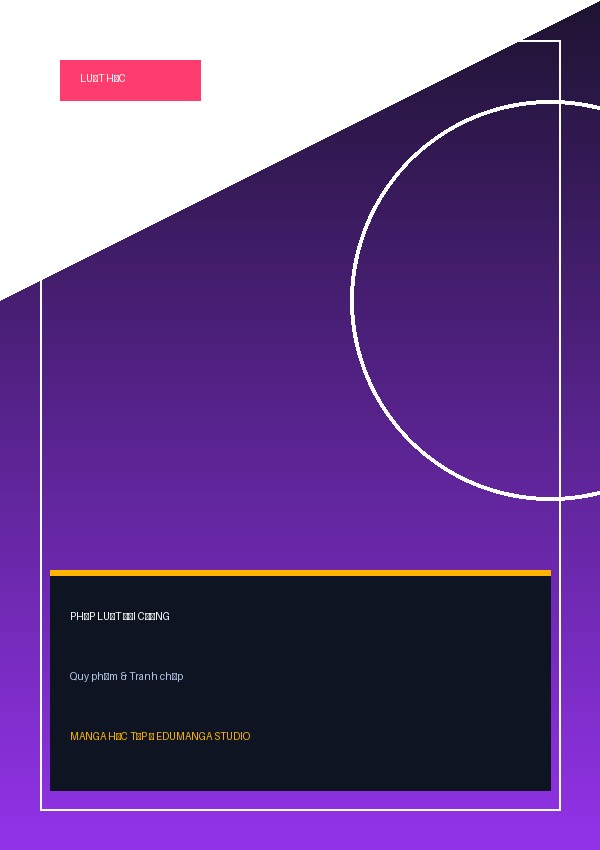
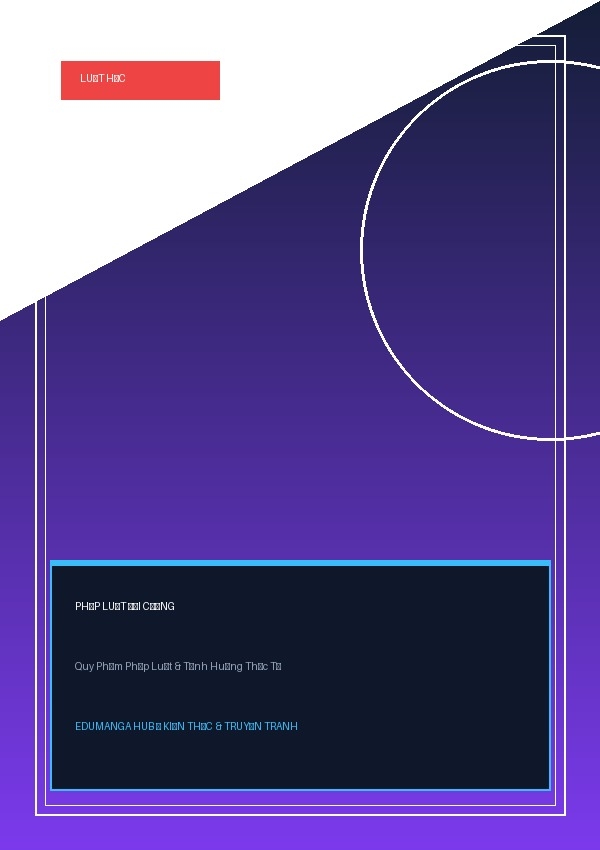
fix: replace hardcoded hacker cover with proper covers

diff --git a/js/app.js b/js/app.js
@@ -85,7 +85,7 @@ function renderHeroFeatured(featured) {
       </div>
       <div class="hero-preview">
         <a href="detail.html?id=${featured.id}" class="hero-cover-stack">
-          <img src="${window.getSeriesCover ? window.getSeriesCover(featured) : (featured.cover || 'assets/covers/n2_cover.jpg')}" alt="${featured.title}" onerror="this.src='assets/covers/n2_cover.jpg'">
+          <img src="${window.getSeriesCover ? window.getSeriesCover(featured) : (featured.cover || 'assets/covers/default_cover.jpg')}" alt="${featured.title}" onerror="this.src='assets/covers/default_cover.jpg'">
         </a>
       </div>
     </div>
@@ -143,7 +143,7 @@ function renderMangaGrid(mangaList) {
         <a href="detail.html?id=${m.id}" class="card-cover-wrapper">
           <span class="card-badge">${escapeHtml(m.badge || 'Mới')}</span>
           <span class="card-category">${escapeHtml(m.category)}</span>
-          <img class="card-cover" src="${window.getSeriesCover ? window.getSeriesCover(m) : (m.cover || 'assets/covers/n2_cover.jpg')}" alt="${escapeHtml(m.title)}" loading="lazy" onerror="this.src='assets/covers/n2_cover.jpg'">
+          <img class="card-cover" src="${window.getSeriesCover ? window.getSeriesCover(m) : (m.cover || 'assets/covers/default_cover.jpg')}" alt="${escapeHtml(m.title)}" loading="lazy" onerror="this.src='assets/covers/default_cover.jpg'">
           ${adminActionsHtml}
         </a>
         <div class="card-info">
@@ -217,7 +217,7 @@ function renderSearchDropdown(matches, query) {
 
   searchDropdown.innerHTML = matches.slice(0, 5).map(m => `
     <a href="detail.html?id=${m.id}" class="search-drop-item">
-      <img src="${window.getSeriesCover ? window.getSeriesCover(m) : (m.cover || 'assets/covers/n2_cover.jpg')}" alt="${escapeHtml(m.title)}" onerror="this.src='assets/covers/n2_cover.jpg'">
+      <img src="${window.getSeriesCover ? window.getSeriesCover(m) : (m.cover || 'assets/covers/default_cover.jpg')}" alt="${escapeHtml(m.title)}" onerror="this.src='assets/covers/default_cover.jpg'">
       <div>
         <div style="font-weight: 700; color: #fff;">${escapeHtml(m.title)}</div>
         <div style="font-size: 0.8rem; color: var(--text-muted);">${escapeHtml(m.category)} • ${(m.chapters || []).length} chương</div>

diff --git a/js/db-storage.js b/js/db-storage.js
@@ -712,7 +712,7 @@ const dbStorage = {
 
   // 7. Dynamic Series Cover Resolver (Fallback to First Page of Chapter 1)
   getSeriesCover(series) {
-    if (!series) return 'assets/covers/n2_cover.jpg';
+    if (!series) return 'assets/covers/default_cover.jpg';
     if (series.cover && typeof series.cover === 'string' && series.cover.trim() !== '') {
       return series.cover.trim();
     }
@@ -730,11 +730,11 @@ const dbStorage = {
       }
     }
 
-    return 'assets/covers/n2_cover.jpg';
+    return 'assets/covers/default_cover.jpg';
   },
 
   async getSeriesCoverAsync(series) {
-    if (!series) return 'assets/covers/n2_cover.jpg';
+    if (!series) return 'assets/covers/default_cover.jpg';
     if (series.cover && typeof series.cover === 'string' && series.cover.trim() !== '') {
       return series.cover.trim();
     }
@@ -759,7 +759,7 @@ const dbStorage = {
       }
     }
 
-    return 'assets/covers/n2_cover.jpg';
+    return 'assets/covers/default_cover.jpg';
   }
 };
 

diff --git a/js/detail.js b/js/detail.js
@@ -107,7 +107,7 @@ function renderSeriesInfo(s) {
         box-shadow: var(--shadow-neon);
         aspect-ratio: 3/4.2;
       ">
-        <img src="${window.getSeriesCover ? window.getSeriesCover(s) : (s.cover || 'assets/covers/n2_cover.jpg')}" alt="${escapeHtml(s.title)}" style="width: 100%; height: 100%; object-fit: cover;" onerror="this.src='assets/covers/n2_cover.jpg'">
+        <img src="${window.getSeriesCover ? window.getSeriesCover(s) : (s.cover || 'assets/covers/default_cover.jpg')}" alt="${escapeHtml(s.title)}" style="width: 100%; height: 100%; object-fit: cover;" onerror="this.src='assets/covers/default_cover.jpg'">
       </div>
       <div class="series-info-main" style="display: flex; flex-direction: column; justify-content: space-between;">
         <div>
